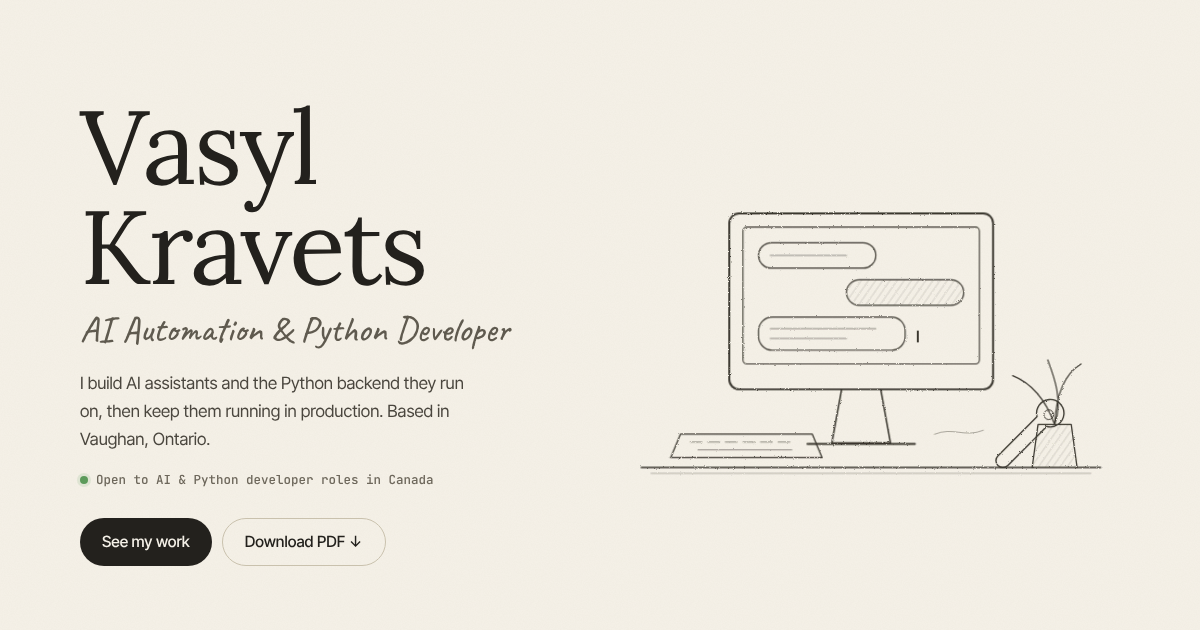
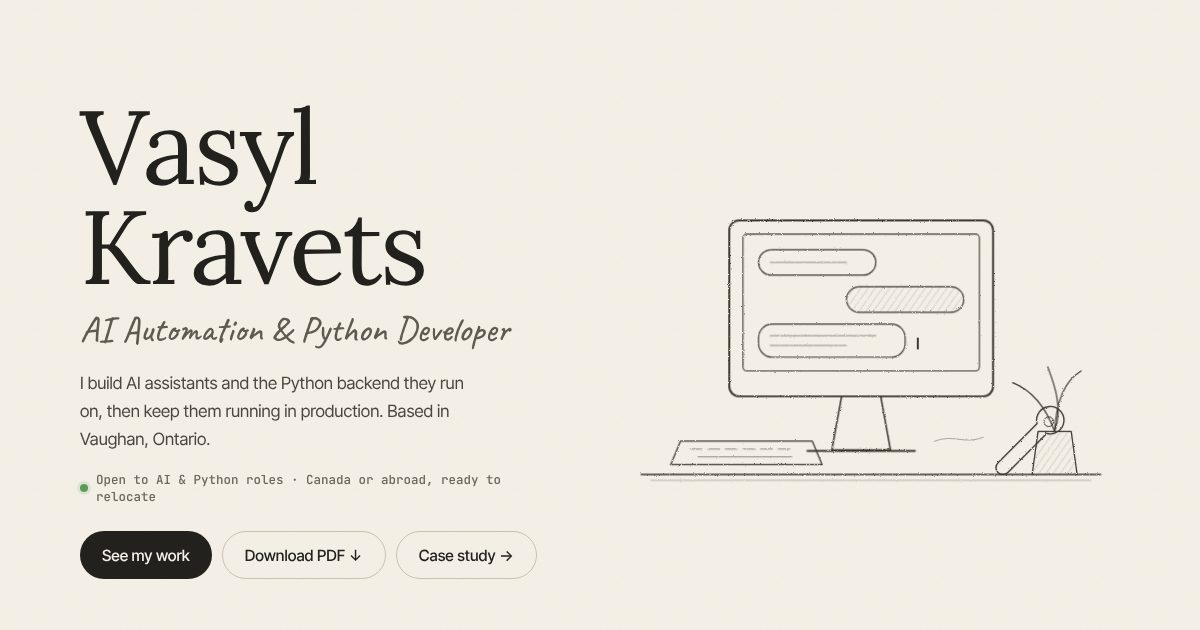
Preview image matches the current hero; cache-busting version for link previews
Claude-Session: https://claude.ai/code/session_019wNNTvzFyWBFiw2ZGaSZa1

diff --git a/ru/index.html b/ru/index.html
@@ -16,7 +16,7 @@
 <meta property="og:title" content="Василий Кравец — разработчик AI-автоматизаций на Python">
 <meta property="og:description" content="AI-ассистенты на собственном бэкенде на Python и FastAPI — с тестами, CI и автоматическим развёртыванием. Vaughan, Онтарио.">
 <meta property="og:url" content="https://vkravets.com/ru/">
-<meta property="og:image" content="https://vkravets.com/og-image.png">
+<meta property="og:image" content="https://vkravets.com/og-image.png?v=20261126">
 <meta property="og:image:width" content="1200">
 <meta property="og:image:height" content="630">
 <meta name="twitter:card" content="summary_large_image">

diff --git a/ua/index.html b/ua/index.html
@@ -16,7 +16,7 @@
 <meta property="og:title" content="Василь Кравець — розробник AI-автоматизацій на Python">
 <meta property="og:description" content="AI-асистенти на власному бекенді на Python і FastAPI — з тестами, CI і автоматичним розгортанням. Vaughan, Онтаріо.">
 <meta property="og:url" content="https://vkravets.com/ua/">
-<meta property="og:image" content="https://vkravets.com/og-image.png">
+<meta property="og:image" content="https://vkravets.com/og-image.png?v=20261126">
 <meta property="og:image:width" content="1200">
 <meta property="og:image:height" content="630">
 <meta name="twitter:card" content="summary_large_image">

diff --git a/index.html b/index.html
@@ -16,7 +16,7 @@
 <meta property="og:title" content="Vasyl Kravets — AI Automation &amp; Python Developer">
 <meta property="og:description" content="AI assistants on my own Python &amp; FastAPI backend, with tests, CI and automatic deploys. Vaughan, Ontario.">
 <meta property="og:url" content="https://vkravets.com/">
-<meta property="og:image" content="https://vkravets.com/og-image.png">
+<meta property="og:image" content="https://vkravets.com/og-image.png?v=20261126">
 <meta property="og:image:width" content="1200">
 <meta property="og:image:height" content="630">
 <meta name="twitter:card" content="summary_large_image">

diff --git a/core/index.html b/core/index.html
@@ -9,7 +9,7 @@
 <meta property="og:title" content="CorePulse Core — case study">
 <meta property="og:description" content="One Python backend behind my live AI assistants: FastAPI, PostgreSQL, 170+ tests, CI, deploys with automatic rollback.">
 <meta property="og:url" content="https://vkravets.com/core/">
-<meta property="og:image" content="https://vkravets.com/og-image.png">
+<meta property="og:image" content="https://vkravets.com/og-image.png?v=20261126">
 <link rel="icon" href="/favicon.svg" type="image/svg+xml">
 <link rel="icon" href="/favicon.ico" sizes="any">
 <style>

diff --git a/src/build.py b/src/build.py
@@ -109,7 +109,7 @@ def page(c):
 <meta property="og:title" content="{esc_attr(c["title"])}">
 <meta property="og:description" content="{esc_attr(c["og_description"])}">
 <meta property="og:url" content="{SITE}{c["path"]}">
-<meta property="og:image" content="{SITE}/og-image.png">
+<meta property="og:image" content="{SITE}/og-image.png?v=20261126">
 <meta property="og:image:width" content="1200">
 <meta property="og:image:height" content="630">
 <meta name="twitter:card" content="summary_large_image">
